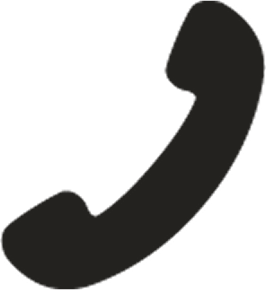
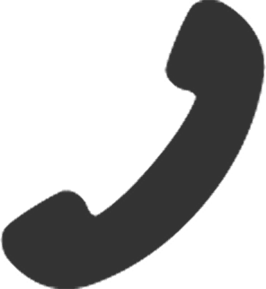
update-109　再

diff --git a/contact-phone.html b/contact-phone.html
@@ -165,7 +165,7 @@
           <h2>電話でのお問い合わせ</h2>
           <a href="tel:0939805231">
             <article class="tel-num-box">
-              <img src="img/icon_tel_black3.png" alt="電話アイコン">
+              <img src="img/icon_tel_black.png" alt="電話アイコン">
               <p class="tel-num">093-980-5231</p>
             </article>
           </a>
